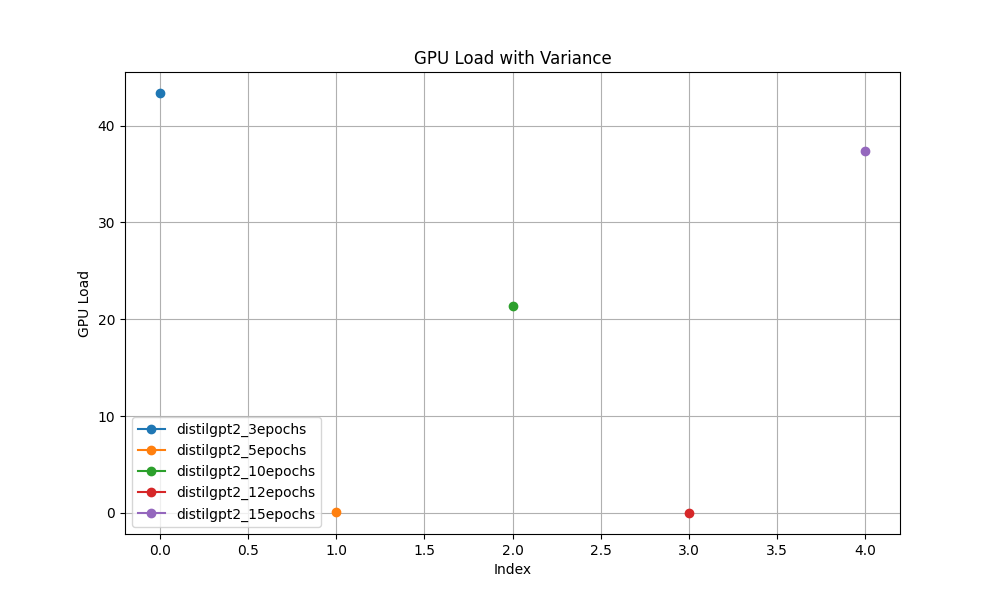
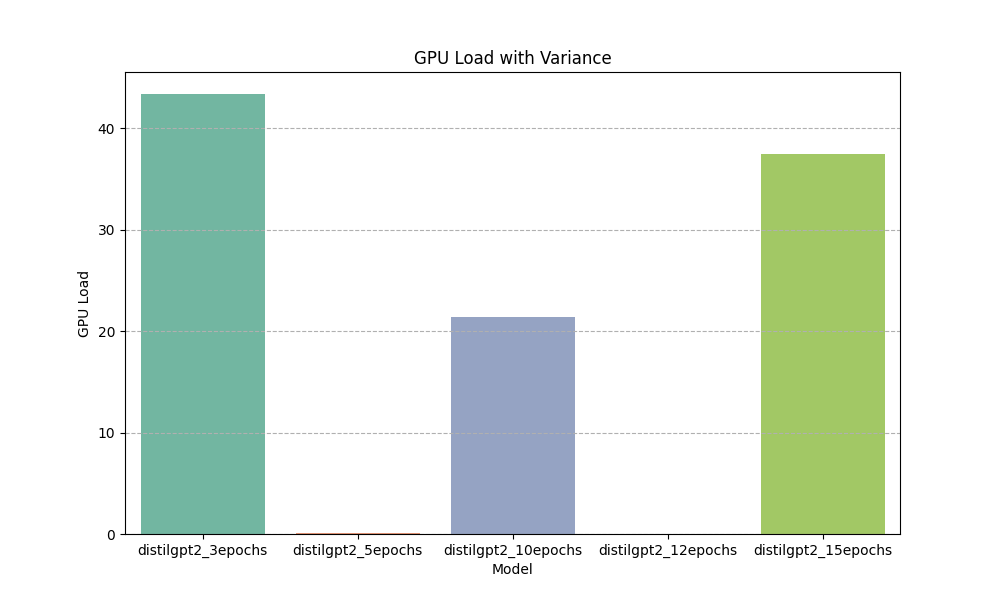
Plots corrected

diff --git a/NLP_NAS/plot_distilgpt2.py b/NLP_NAS/plot_distilgpt2.py
@@ -2,7 +2,10 @@ import os
 import pandas as pd
 import seaborn as sns
 import matplotlib.pyplot as plt
-import scikit_posthocs as sp
+import numpy as np
+from math import pi
+from pandas.plotting import parallel_coordinates
+from sklearn.preprocessing import MinMaxScaler
 
 # Ensure the plots directory exists
 plot_dir = 'results/distilgpt2/plots'
@@ -38,50 +41,29 @@ def load_data_for_all_models(model_names, base_dir):
         all_data.append(df)
     return pd.concat(all_data, ignore_index=True)
 
-# Function to generate Critical Difference (CD) diagram
-def plot_cd_diagram(df, metric, title, plot_filename):
-    # Pivot the DataFrame to get models as columns and each entry as a separate data point
-    pivot_df = df.pivot(columns='model', values=metric)
-
-    # Check if there's any missing data, and fill or drop it
-    pivot_df.dropna(inplace=True)
-
-    # Get rankings (each row is considered a dataset, and each column is a model)
-    rankings = pivot_df.rank(axis=1, method='min')
-
-    # Calculate average rankings for each model
-    avg_rankings = rankings.mean(axis=0).values
-    model_names = rankings.columns
-
-    # Compute Critical Difference and plot the diagram
-    cd = sp.posthoc_nemenyi_friedman(rankings)
-    
-    # Plot the CD diagram using seaborn or matplotlib
-    plt.figure(figsize=(10, 6))
-    sns.heatmap(cd, annot=True, cmap="YlGnBu")
-    plt.title(title)
-    plt.savefig(os.path.join(plot_dir, plot_filename))  # Save the plot
-    plt.show()  # Show the plot
-
-# Function for plotting with confidence intervals
+# Plot with shaded confidence interval (line plot with variance)
 def plot_with_confidence(df, metric, title, ylabel, plot_filename):
     plt.figure(figsize=(10, 6))
-    for model in df['model'].unique():
-        model_df = df[df['model'] == model]
-        plt.plot(model_df.index, model_df[metric], label=model, marker='o')
-        plt.fill_between(model_df.index, model_df[metric] - model_df[metric].std(), 
-                         model_df[metric] + model_df[metric].std(), alpha=0.2)
+    
+    # Use the model column as a hue to apply colors and set legend to False
+    sns.barplot(x='model', y=metric, hue='model', data=df, palette=palette, dodge=False)
+    
     plt.title(title)
-    plt.xlabel('Index')
     plt.ylabel(ylabel)
-    plt.legend()
-    plt.grid(True)
+    plt.xlabel('Model')
+    
+    plt.grid(True, axis='y', linestyle='--')  # Enable grid for only the y-axis with dashed lines
+    
+    # Adjust axis ticks to match bar positions, if you still want a background grid
+    # plt.grid(True, axis='y', linestyle='--')
+    
     plt.savefig(os.path.join(plot_dir, plot_filename))  # Save the plot
     plt.show()  # Show the plot
 
 # Heatmap for model vs metric performance
 def plot_heatmap(df, title, plot_filename):
-    metrics = ['Power_avg_power_mW_delta', 'Memory_used_KB_delta', 'GPU_load_delta', 'CPU_avg_freq_delta']
+    metrics = ['Power_avg_power_mW_delta',
+               'Memory_used_KB_delta', 'GPU_load_delta', 'CPU_avg_freq_delta']
     pivot_df = df.groupby('model')[metrics].mean()
     plt.figure(figsize=(12, 8))
     sns.heatmap(pivot_df, annot=True, cmap="YlGnBu", linewidths=.5)
@@ -91,11 +73,17 @@ def plot_heatmap(df, title, plot_filename):
 
 # Correlation matrix of metrics
 def plot_correlation_matrix(df, plot_filename):
-    metrics = ['Power_avg_power_mW_delta', 'Memory_used_KB_delta', 'GPU_load_delta', 'CPU_avg_freq_delta']
+    metrics = ['Power_avg_power_mW_delta',
+               'Memory_used_KB_delta', 'GPU_load_delta', 'CPU_avg_freq_delta']
     corr_matrix = df[metrics].corr()
+    
     plt.figure(figsize=(10, 6))
     sns.heatmap(corr_matrix, annot=True, cmap="coolwarm", linewidths=.5)
-    plt.title('Correlation Matrix of Metrics')
+    
+    plt.title('Correlation Matrix of Metrics', pad=20)  # Add padding for title
+    plt.xticks(rotation=45, ha='right')  # Rotate x-axis labels
+    plt.yticks(rotation=0)  # Keep y-axis labels horizontal
+    plt.tight_layout()  # Ensure nothing is cut off
     plt.savefig(os.path.join(plot_dir, plot_filename))  # Save the plot
     plt.show()  # Show the plot
 
@@ -110,17 +98,87 @@ def calculate_performance_metrics(df):
     print("Performance Metrics Summary:")
     print(summary)
 
-# Plot total time comparison across models
+# Radar chart
+def plot_radar_chart(df, plot_filename):
+    metrics = ['Power_avg_power_mW_delta', 'Memory_used_KB_delta', 'GPU_load_delta', 'CPU_avg_freq_delta']
+    df_mean = df.groupby('model')[metrics].mean().reset_index()
+
+    # Normalize data for better visualization
+    scaler = MinMaxScaler()
+    df_mean[metrics] = scaler.fit_transform(df_mean[metrics])
+
+    # Radar chart setup
+    categories = metrics
+    num_vars = len(categories)
+
+    angles = [n / float(num_vars) * 2 * pi for n in range(num_vars)]
+    angles += angles[:1]  # Complete the loop
+
+    plt.figure(figsize=(8, 8))
+    ax = plt.subplot(111, polar=True)
+
+    # Adjust radar plot
+    for i, row in df_mean.iterrows():
+        values = row[metrics].tolist()
+        values += values[:1]  # Complete the loop
+        ax.fill(angles, values, alpha=0.25)
+        ax.plot(angles, values, label=row['model'], marker='o')
+
+    # Customize ticks and labels
+    ax.set_xticks(angles[:-1])
+    ax.set_xticklabels(categories, fontsize=10)
+
+    # Adjust label rotation based on angle
+    for label, angle in zip(ax.get_xticklabels(), angles):
+        angle_deg = np.degrees(angle)
+        if angle_deg < 90 or angle_deg > 270:
+            label.set_horizontalalignment('left')
+        else:
+            label.set_horizontalalignment('right')
+
+        label.set_rotation(angle_deg - 90 if angle_deg < 180 else angle_deg + 90)
+
+    # Move the legend outside the plot
+    legend = plt.legend(loc='upper left', bbox_to_anchor=(1.1, 1.05))
+    plt.title('Radar Chart: Model Comparison')
+
+    # Save the plot with a tight layout to prevent cropping
+    plt.savefig(os.path.join(plot_dir, plot_filename), bbox_extra_artists=(legend,), bbox_inches='tight')
+    plt.show()
+
+# Parallel coordinates plot
+def plot_parallel_coordinates(df, plot_filename):
+    metrics = ['Power_avg_power_mW_delta', 'Memory_used_KB_delta', 'GPU_load_delta', 'CPU_avg_freq_delta']
+    df_mean = df.groupby('model')[metrics].mean().reset_index()
+
+    # Normalize data for better visualization
+    scaler = MinMaxScaler()
+    df_mean[metrics] = scaler.fit_transform(df_mean[metrics])
+
+    plt.figure(figsize=(10, 6))
+    # Create the parallel coordinates plot
+    parallel_coordinates(df_mean, 'model', color=sns.color_palette("husl", len(df_mean['model'].unique())))
+
+    # Set the title
+    plt.title('Parallel Coordinates: Model Comparison')
+
+    # Move the legend outside the plot and place it at the right
+    plt.legend(loc='upper left', bbox_to_anchor=(1.05, 1), frameon=False)
+
+    # Save the plot
+    plt.savefig(os.path.join(plot_dir, plot_filename), bbox_inches='tight')
+    plt.show()
+
+# Additional plotting functions (time-related)
 def plot_total_time(df, plot_filename):
     plt.figure(figsize=(10, 6))
-    sns.barplot(x='model', y='Time_delta', data=df)
+    sns.barplot(x='model', y='Time_delta', hue='model', data=df, palette=palette, dodge=False)
     plt.title('Total Time Comparison Across Models')
     plt.ylabel('Total Time (seconds)')
-    plt.grid(True)
+    plt.grid(True, axis='y', linestyle='--')
     plt.savefig(os.path.join(plot_dir, plot_filename))  # Save the plot
     plt.show()  # Show the plot
 
-# Plot time vs metric (e.g., Power, GPU Load)
 def plot_time_vs_metric(df, metric, title, ylabel, plot_filename):
     plt.figure(figsize=(10, 6))
     for model in df['model'].unique():
@@ -134,7 +192,6 @@ def plot_time_vs_metric(df, metric, title, ylabel, plot_filename):
     plt.savefig(os.path.join(plot_dir, plot_filename))  # Save the plot
     plt.show()  # Show the plot
 
-# Plot time vs CPU/GPU load or other relevant metrics
 def plot_time_vs_load(df, plot_filename):
     plt.figure(figsize=(10, 6))
     for model in df['model'].unique():
@@ -149,8 +206,8 @@ def plot_time_vs_load(df, plot_filename):
     plt.savefig(os.path.join(plot_dir, plot_filename))  # Save the plot
     plt.show()  # Show the plot
 
-# Main function to load data and plot comparisons
-def compare_models_with_cd_and_other_plots(model_names, base_dir):
+# Main function to load data and plot comparisons, including time-related plots
+def compare_models_with_all_plots(model_names, base_dir):
     # Load data from all models
     df = load_data_for_all_models(model_names, base_dir)
     
@@ -158,55 +215,45 @@ def compare_models_with_cd_and_other_plots(model_names, base_dir):
     cpu_freq_cols = [col for col in df.columns if 'CPU' in col and '_current_freq_delta' in col]
     df['CPU_avg_freq_delta'] = df[cpu_freq_cols].mean(axis=1)
 
-    # Plot line charts with confidence intervals
+    # Plot total time comparison across models
+    plot_total_time(df, 'total_time_comparison.png')
+    
+    # Plot time vs power consumption
+    plot_time_vs_metric(df, 'Power_avg_power_mW_delta', 'Time vs Power Consumption', 'Power (mW)', 'time_vs_power.png')
+    
+    # Plot time vs memory usage
+    plot_time_vs_metric(df, 'Memory_used_KB_delta', 'Time vs Memory Usage', 'Memory Used (KB)', 'time_vs_memory.png')
+    
+    # Plot time vs CPU and GPU load
+    plot_time_vs_load(df, 'time_vs_cpu_gpu_load.png')
+
+    # Plot confidence intervals
     plot_with_confidence(df, 'Power_avg_power_mW_delta', 'Average Power Consumption with Variance', 'Power (mW)', 'power_consumption_variance.png')
     plot_with_confidence(df, 'Memory_used_KB_delta', 'Memory Usage with Variance', 'Memory Used (KB)', 'memory_usage_variance.png')
     plot_with_confidence(df, 'GPU_load_delta', 'GPU Load with Variance', 'GPU Load', 'gpu_load_variance.png')
     plot_with_confidence(df, 'CPU_avg_freq_delta', 'Average CPU Frequency Delta with Variance', 'CPU Frequency Delta (kHz)', 'cpu_freq_variance.png')
-
+   
     # Heatmap of model vs performance metrics
     plot_heatmap(df, 'Model vs Performance Metrics', 'model_performance_heatmap.png')
 
     # Correlation matrix for metrics
     plot_correlation_matrix(df, 'correlation_matrix.png')
 
-    # Calculate peak, average, and total performance metrics
+    # Plot radar chart for model comparison
+    plot_radar_chart(df, 'radar_chart_comparison.png')
+
+    # Plot parallel coordinates plot
+    plot_parallel_coordinates(df, 'parallel_coordinates_comparison.png')
+
+    # Calculate and print performance metrics
     calculate_performance_metrics(df)
 
-    # Plot total time comparison across models
-    plot_total_time(df, 'total_time_comparison.png')
+# Define the models and paths
+model_names = ['distilgpt2_3epochs', 'distilgpt2_5epochs', 'distilgpt2_10epochs', 'distilgpt2_12epochs', 'distilgpt2_15epochs']
+raw_data_dir = 'stat_dumps/distilgpt2'
 
-    # Plot time vs power consumption
-    plot_time_vs_metric(df, 'Power_avg_power_mW_delta', 'Time vs Power Consumption', 'Power (mW)', 'time_vs_power.png')
+# Set consistent color palette for models
+palette = sns.color_palette("Set2", len(model_names))
 
-    # Plot time vs memory usage
-    plot_time_vs_metric(df, 'Memory_used_KB_delta', 'Time vs Memory Usage', 'Memory Used (KB)', 'time_vs_memory.png')
-
-    # Plot time vs CPU and GPU load
-    plot_time_vs_load(df, 'time_vs_cpu_gpu_load.png')
-
-    # Generate Critical Difference diagram for Power consumption
-    plot_cd_diagram(df, 'Power_avg_power_mW_delta', 'Critical Difference Diagram: Power Consumption', 'cd_power_consumption.png')
-
-    # Generate Critical Difference diagram for Memory usage
-    plot_cd_diagram(df, 'Memory_used_KB_delta', 'Critical Difference Diagram: Memory Usage', 'cd_memory_usage.png')
-
-    # Generate Critical Difference diagram for GPU load
-    plot_cd_diagram(df, 'GPU_load_delta', 'Critical Difference Diagram: GPU Load', 'cd_gpu_load.png')
-
-    # Generate Critical Difference diagram for CPU Frequency delta
-    plot_cd_diagram(df, 'CPU_avg_freq_delta', 'Critical Difference Diagram: CPU Frequency Delta', 'cd_cpu_freq_delta.png')
-
-
-# Check if plot normal models or trt models
-model_type = input('Choose either "normal" or "trt" model to plot: ')
-
-if model_type not in ['normal', 'trt']:
-    print('Error, you must choose between the normal and trt model.')
-else: 
-    # Define the models and paths
-    model_names = ['distilgpt2_3epochs', 'distilgpt2_5epochs', 'distilgpt2_10epochs', 'distilgpt2_12epochs', 'distilgpt2_15epochs'] if model_type == 'normal' else ['distilgpt2_3epochs_trt', 'distilgpt2_5epochs_trt', 'distilgpt2_10epochs_trt', 'distilgpt2_12epochs_trt', 'distilgpt2_15epochs_trt']
-    raw_data_dir = 'stat_dumps/distilgpt2' if model_type == 'normal' else 'stat_dumps/distilgpt2/trt'
-
-    # Run comparison with CD diagrams and other plots
-    compare_models_with_cd_and_other_plots(model_names, raw_data_dir)
+# Run comparison with all plots
+compare_models_with_all_plots(model_names, raw_data_dir)
